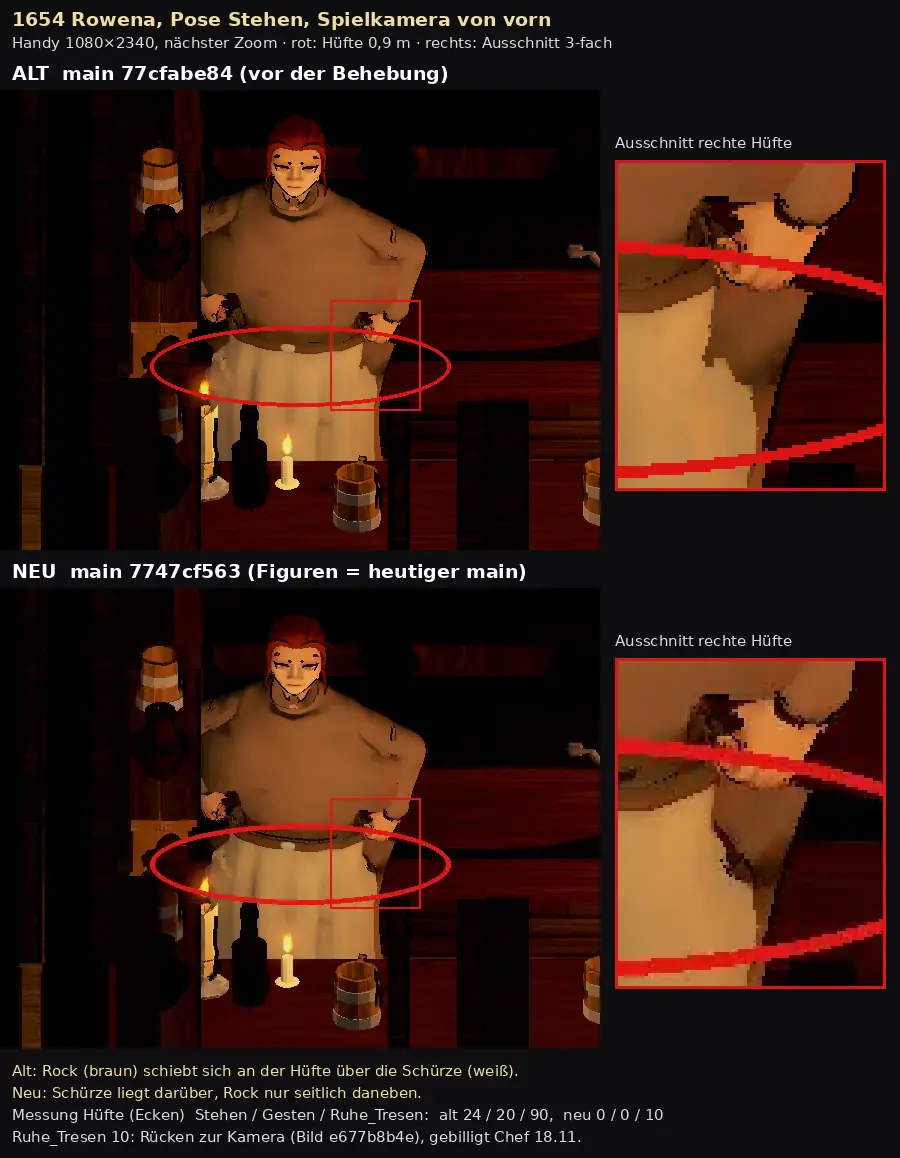
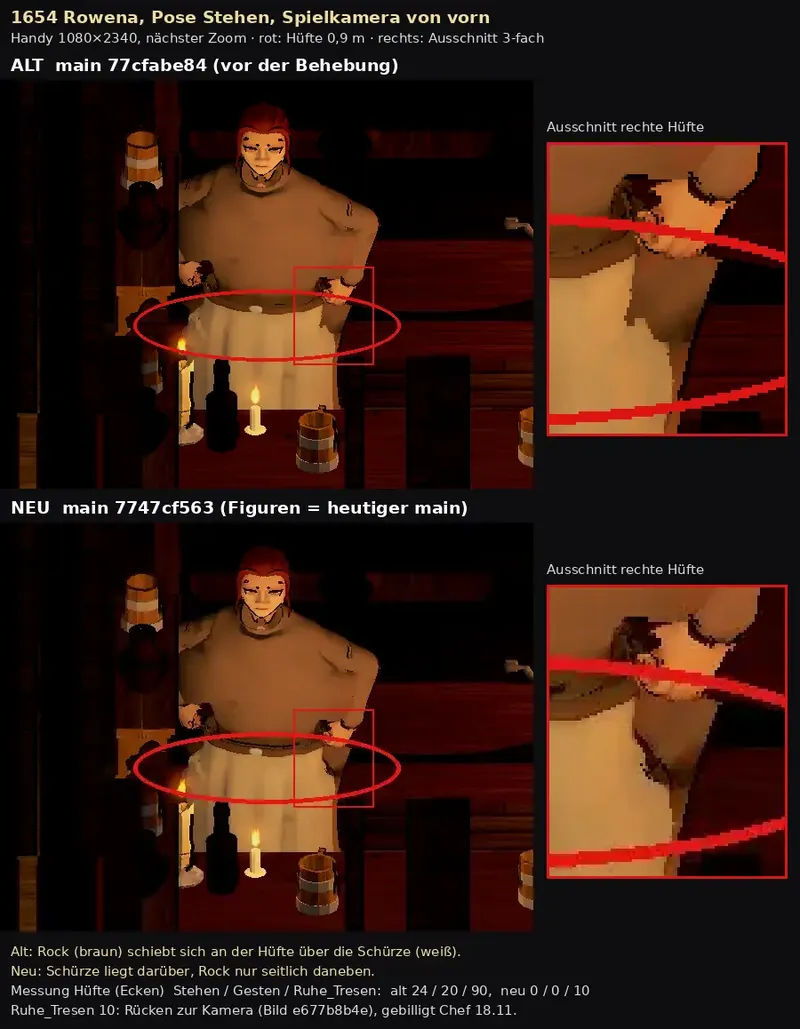
2028 Vorgangsdatei, Bild 1654 auf 800 px (Sokrates)
Claude-Session: https://claude.ai/code/session_01Hmoj77b3dQK5zpocRJsWFB

diff --git a/docs/vorgang/2028.md b/docs/vorgang/2028.md
@@ -1,0 +1,7 @@
+# 2028 · Rowena: fast schwarze Flecken an beiden Handgelenken, alt wie neu
+
+Vorgangsdatei (1727 Gesamtbild 0a). Übergaben schreibt nur `vorgang.py` (1760).
+
+## Herkunft
+
+Fund des Prüfers zu 1654 (25.11., 12:32, `docs/vorgang/1654.md`, Rückmeldung 12:32): „Rowenas Handgelenke zeigen alt und neu fast schwarze Flecken (Bild 1654-rowena-stehen-altneu.webp, beide Hände über der Hüfte); Profil Figur: tiefschwarz an farbig Gebautem ist ein Darstellungsfehler.“ Bild: `docs/chefsache/bilder/1654-rowena-stehen-altneu.webp`. Eingetragen von Sokrates 25.11., 12:35; Auftrag schreibt der Arbeitsplaner, Start unter der Laufsperre nach Vorrang.
